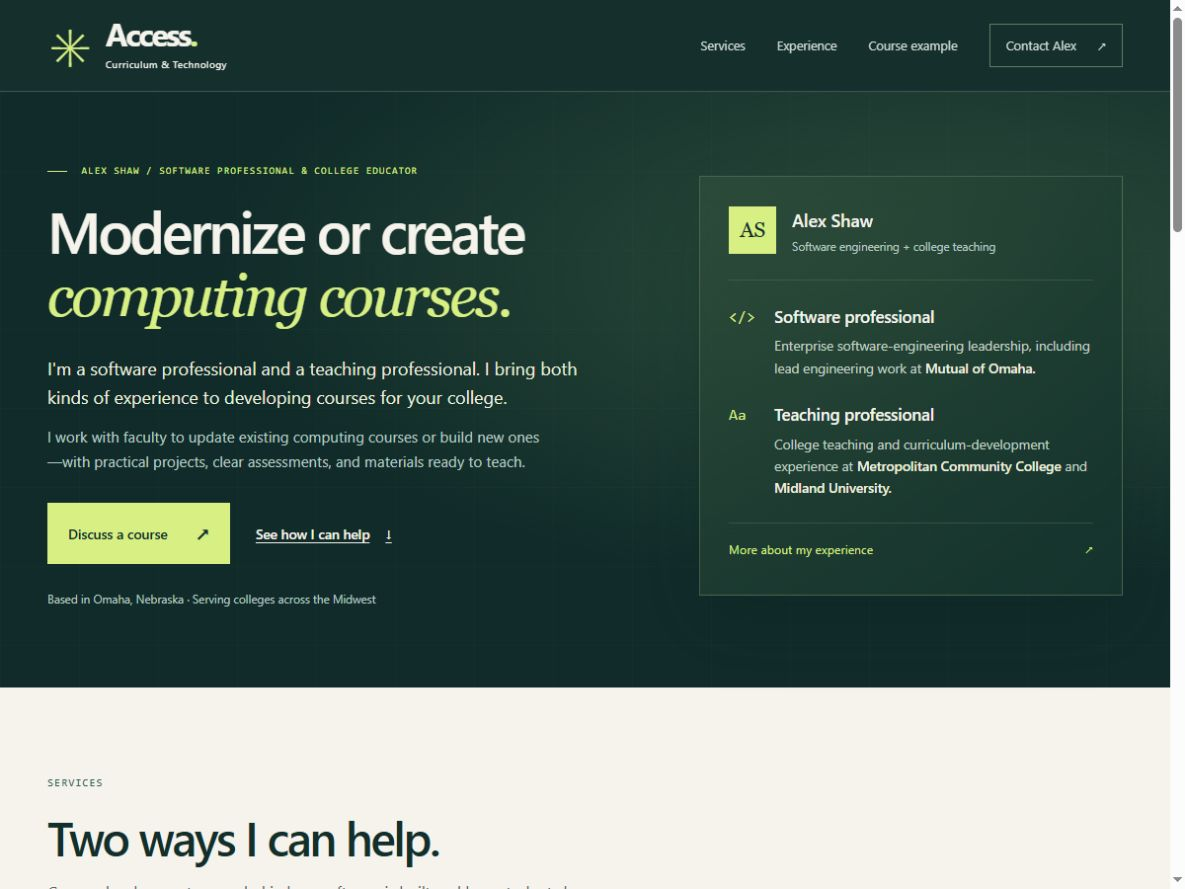
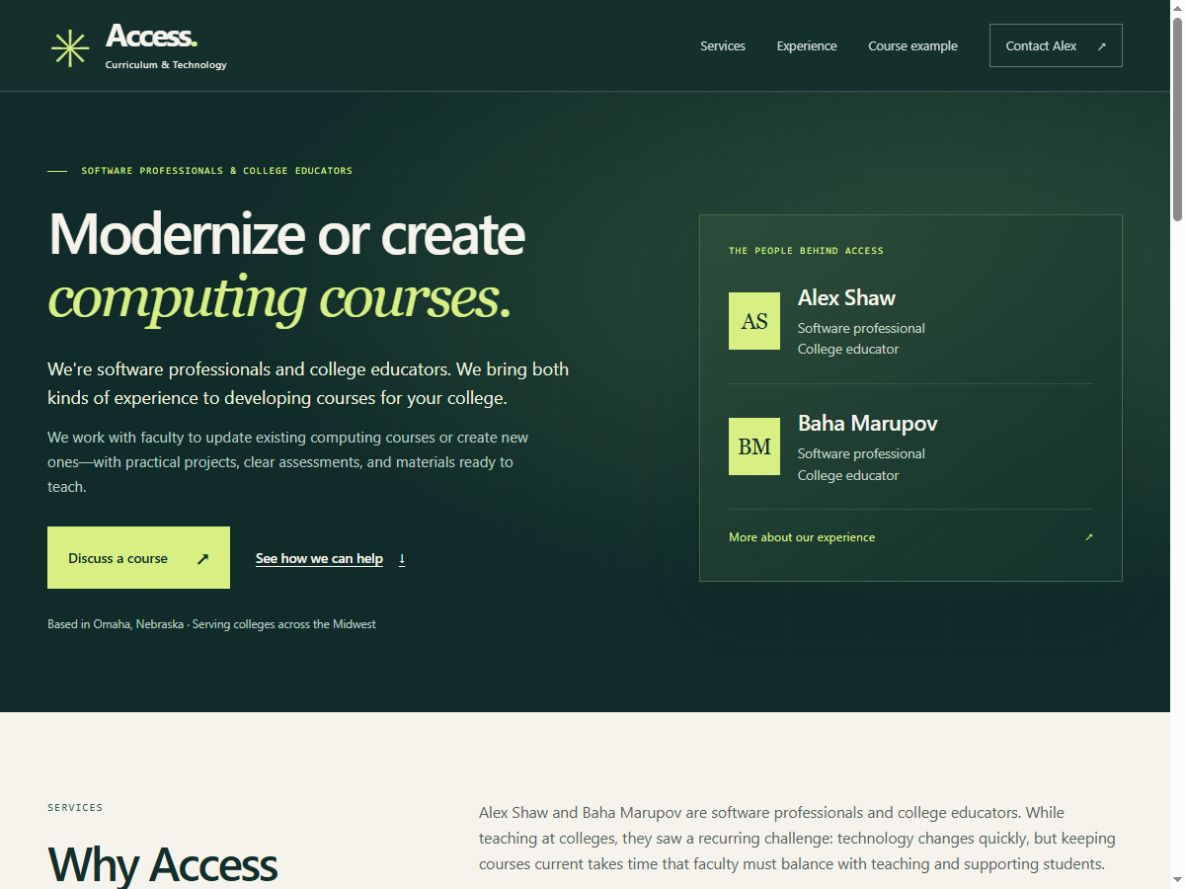
Tell Access's story and introduce Alex Shaw and Baha Marupov

diff --git a/index.html b/index.html
@@ -3,11 +3,11 @@
 <head>
   <meta charset="utf-8">
   <meta name="viewport" content="width=device-width, initial-scale=1">
-  <title>Alex Shaw | Computing Course Development | Access Curriculum &amp; Technology</title>
-  <meta name="description" content="Alex Shaw is a software professional and college educator helping colleges modernize existing computing courses and create new ones. Based in Omaha, serving the Midwest.">
+  <title>Computing Course Development | Access Curriculum &amp; Technology</title>
+  <meta name="description" content="Alex Shaw and Baha Marupov bring software and college teaching experience to helping faculty modernize computing courses or create new ones. Serving the Midwest.">
   <meta property="og:type" content="website">
-  <meta property="og:title" content="Alex Shaw | Modernize or create computing courses">
-  <meta property="og:description" content="Professional software experience. Professional teaching experience. Practical help developing computing courses for your college.">
+  <meta property="og:title" content="Access | Modernize or create computing courses">
+  <meta property="og:description" content="Software professionals and college educators Alex Shaw and Baha Marupov help faculty develop computing courses with practical projects and materials ready to teach.">
   <meta name="theme-color" content="#102b29">
   <link rel="icon" href="./favicon.svg" type="image/svg+xml">
   <link rel="stylesheet" href="./styles.css">
@@ -30,34 +30,41 @@
     <section class="hero" id="top" aria-labelledby="hero-heading">
       <div class="container hero-grid">
         <div class="hero-copy">
-          <p class="eyebrow"><span class="eyebrow-line" aria-hidden="true"></span> Alex Shaw / Software professional &amp; college educator</p>
+          <p class="eyebrow"><span class="eyebrow-line" aria-hidden="true"></span> Software professionals &amp; college educators</p>
           <h1 id="hero-heading">Modernize or create<br><em>computing courses.</em></h1>
-          <p class="hero-intro">I'm a software professional and a teaching professional. I bring both kinds of experience to developing courses for your college.</p>
-          <p class="hero-description">I work with faculty to update existing computing courses or build new ones—with practical projects, clear assessments, and materials ready to teach.</p>
+          <p class="hero-intro">We're software professionals and college educators. We bring both kinds of experience to developing courses for your college.</p>
+          <p class="hero-description">We work with faculty to update existing computing courses or create new ones—with practical projects, clear assessments, and materials ready to teach.</p>
           <div class="actions">
             <a class="button button-accent" href="#contact">Discuss a course <span aria-hidden="true">↗</span></a>
-            <a class="text-link" href="#services">See how I can help <span aria-hidden="true">↓</span></a>
+            <a class="text-link" href="#services">See how we can help <span aria-hidden="true">↓</span></a>
           </div>
           <p class="hero-location">Based in Omaha, Nebraska · Serving colleges across the Midwest</p>
         </div>
-        <aside class="credentials" aria-label="Alex Shaw's software and teaching credentials">
-          <div class="credential-heading"><span class="founder-monogram" aria-hidden="true">AS</span><div><strong>Alex Shaw</strong><span>Software engineering + college teaching</span></div></div>
-          <div class="credential">
-            <span class="credential-icon" aria-hidden="true">&lt;/&gt;</span>
-            <div><h2>Software professional</h2><p>Enterprise software-engineering leadership, including lead engineering work at <strong>Mutual of Omaha.</strong></p></div>
+        <aside class="credentials" aria-label="Meet Alex Shaw and Baha Marupov">
+          <p class="credentials-label">The people behind Access</p>
+          <div class="credential-person">
+            <span class="person-monogram" aria-hidden="true">AS</span>
+            <div><h2>Alex Shaw</h2><p>Software professional<br>College educator</p></div>
           </div>
-          <div class="credential">
-            <span class="credential-icon" aria-hidden="true">Aa</span>
-            <div><h2>Teaching professional</h2><p>College teaching and curriculum-development experience at <strong>Metropolitan Community College</strong> and <strong>Midland University.</strong></p></div>
+          <div class="credential-person">
+            <span class="person-monogram" aria-hidden="true">BM</span>
+            <div><h2>Baha Marupov</h2><p>Software professional<br>College educator</p></div>
           </div>
-          <a class="credential-link" href="#experience">More about my experience <span aria-hidden="true">↗</span></a>
+          <a class="credential-link" href="#experience">More about our experience <span aria-hidden="true">↗</span></a>
         </aside>
       </div>
     </section>
 
     <section class="section services" id="services" aria-labelledby="services-heading">
       <div class="container">
-        <div class="section-heading"><p class="eyebrow">Services</p><h2 id="services-heading">Two ways I can help.</h2><p>Course development grounded in how software is built and how students learn.</p></div>
+        <div class="section-heading services-intro">
+          <div><p class="eyebrow">Services</p><h2 id="services-heading">Why Access<br><em>exists.</em></h2></div>
+          <div class="origin-story">
+            <p>Alex Shaw and Baha Marupov are software professionals and college educators. While teaching at colleges, they saw a recurring challenge: technology changes quickly, but keeping courses current takes time that faculty must balance with teaching and supporting students.</p>
+            <p>Access exists to help with that work. We work alongside your faculty to update existing computing courses or create new ones—with practical projects, clear assessments, and teaching materials your faculty can use and adapt.</p>
+          </div>
+        </div>
+        <p class="services-label">Two ways we can help</p>
         <div class="course-services">
           <article class="course-service" data-reveal>
             <div class="service-top"><span class="service-number">01</span><svg viewBox="0 0 64 64" aria-hidden="true"><path d="M49 20A22 22 0 1 0 53 42M49 9v13H36"/></svg></div>
@@ -70,11 +77,11 @@
             <div class="service-top"><span class="service-number">02</span><svg viewBox="0 0 64 64" aria-hidden="true"><rect x="11" y="11" width="42" height="42"/><path d="M20 32h24M32 20v24"/></svg></div>
             <h3>Create a new<br>computing course.</h3>
             <p>Develop a course from its initial purpose through the learning activities and materials faculty need to teach it.</p>
-            <ul><li>Define outcomes, prerequisites, and a module plan</li><li>Build lessons, labs, projects, and assessments</li><li>Prepare editable teaching materials and a faculty handoff</li></ul>
+            <ul><li>Set learning goals, prerequisites, and a course plan</li><li>Build lessons, labs, projects, and assessments</li><li>Prepare teaching materials faculty can use and adapt</li></ul>
             <a class="text-link" href="mailto:alexandergshaw@gmail.com?subject=Create%20a%20computing%20course">Discuss a new course <span aria-hidden="true">↗</span></a>
           </article>
         </div>
-        <div class="working-together"><h3>Working with your faculty</h3><p>We agree on the learners, course goals, deliverables, timeline, and fee. I develop the materials with faculty feedback and provide a clear handoff. Faculty retain academic decisions and approval.</p></div>
+        <div class="working-together"><h3>Working with your faculty</h3><div><p>College budgets can also make it difficult to match the salaries offered by technology companies. We offer help with a specific course project, with the work, timeline, and fee agreed in advance.</p><p>We develop the materials with faculty feedback and provide guidance for teaching the course. Your faculty make the academic decisions and approve the final materials.</p></div></div>
       </div>
     </section>
 
@@ -82,16 +89,16 @@
       <div class="container">
         <div class="section-heading"><p class="eyebrow">Experience</p><h2 id="experience-heading">Professional software experience.<br><em>Professional teaching experience.</em></h2></div>
         <div class="experience-columns">
-          <article data-reveal><p class="experience-label">Software engineering</p><h3>Experience building<br>and delivering software.</h3><p>My background includes enterprise software-engineering leadership and lead engineering work at Mutual of Omaha.</p><p>I bring that practical perspective to course development: how applications fit together, how to test them, and how to explain technical decisions.</p></article>
-          <article data-reveal><p class="experience-label">College teaching</p><h3>Experience making<br>technical work teachable.</h3><p>My teaching and curriculum-development experience includes Metropolitan Community College and Midland University.</p><p>My work includes web development instruction with TypeScript, React, and Express, systems administration curriculum design, and a proposed applied AI course.</p></article>
+          <article data-reveal><p class="experience-label">Software professional &amp; college educator</p><h3>Alex Shaw</h3><p>Alex's software background includes engineering leadership and lead engineering work at Mutual of Omaha. His teaching and curriculum work includes Metropolitan Community College and Midland University.</p><p>His work includes web development instruction with TypeScript, React, and Express, systems administration course design, and a proposed applied AI course.</p></article>
+          <article data-reveal><p class="experience-label">Software professional &amp; college educator</p><h3>Baha Marupov</h3><p>Baha has experience working as a software professional and teaching at the college level.</p><p>He brings both perspectives to our work with faculty on new and updated computing courses.</p></article>
         </div>
-        <p class="experience-note">These affiliations describe my individual professional experience, not consulting client relationships or institutional endorsements.</p>
+        <p class="experience-note">The organizations named above describe Alex's individual work experience. They are not presented as Access clients or endorsements.</p>
       </div>
     </section>
 
     <section class="section course-example" id="course-example" aria-labelledby="example-heading">
       <div class="container example-layout">
-        <div class="example-copy"><p class="eyebrow">Course example</p><h2 id="example-heading">See what the<br><em>course work looks like.</em></h2><p>Explore a web development example with a module plan, an applied project, assessment criteria, and instructor notes.</p><p class="example-note">This is an illustrative design sample, not a completed client engagement or a report of student results.</p><a class="button" href="./curriculum-sample.html">View the course example <span aria-hidden="true">↗</span></a></div>
+        <div class="example-copy"><p class="eyebrow">Course example</p><h2 id="example-heading">See what the<br><em>course work looks like.</em></h2><p>See how software concepts become lessons, a practical project, clear assessment criteria, and instructor notes in this web development example.</p><p class="example-note">This sample shows our approach. It is not a completed client project or a report of student results.</p><a class="button" href="./curriculum-sample.html">View the course example <span aria-hidden="true">↗</span></a></div>
         <a class="course-preview" href="./curriculum-sample.html" aria-label="Explore the illustrative web application development course">
           <div class="course-preview-top"><span>Illustrative course design</span><span aria-hidden="true">↗</span></div>
           <h3>Web application<br>development</h3>
@@ -103,11 +110,11 @@
 
     <section class="section contact" id="contact" aria-labelledby="contact-heading">
       <div class="container contact-grid">
-        <div><p class="eyebrow">Contact Alex</p><h2 id="contact-heading">Let's talk about<br><em>your course.</em></h2><p>Tell me what you teach, what needs to change, or what new course you want to offer.</p></div>
+        <div><p class="eyebrow">Contact Alex</p><h2 id="contact-heading">Let's talk about<br><em>your course.</em></h2><p>Tell us what you teach, what needs to change, or what new course you want to offer.</p></div>
         <div class="contact-details"><p class="contact-prompts">Modernize an existing course.<br>Create a new one.</p><a class="email-address" href="mailto:alexandergshaw@gmail.com">alexandergshaw@gmail.com</a><div class="actions"><a class="button button-accent" href="mailto:alexandergshaw@gmail.com?subject=Computing%20course%20development">Email Alex <span aria-hidden="true">↗</span></a><button class="copy-email" type="button" hidden>Copy email</button></div><p class="email-help">Opens your email app.</p><p class="copy-status" role="status" aria-live="polite"></p><a class="brief-download" href="./output/pdf/access-capabilities.pdf" download>Download the one-page service overview <span>PDF</span></a></div>
       </div>
     </section>
   </main>
-  <footer class="site-footer"><div class="container footer-inner"><div><p class="footer-brand">Access Curriculum &amp; Technology</p><p>Alex Shaw · Omaha, Nebraska · Serving the Midwest</p></div><p>© 2026 Access Curriculum &amp; Technology</p><a href="#top">Back to top <span aria-hidden="true">↑</span></a></div></footer>
+  <footer class="site-footer"><div class="container footer-inner"><div><p class="footer-brand">Access Curriculum &amp; Technology</p><p>Alex Shaw &amp; Baha Marupov</p><p>Omaha, Nebraska · Serving the Midwest</p></div><p>© 2026 Access Curriculum &amp; Technology</p><a href="#top">Back to top <span aria-hidden="true">↑</span></a></div></footer>
 </body>
 </html>

diff --git a/styles.css b/styles.css
@@ -75,19 +75,20 @@ nav .nav-contact { color: var(--accent); gap: 1.3rem; border: 1px solid #657a60;
 .text-link:hover { text-decoration-thickness: 2px; }
 .hero-location { color: var(--on-dark); font-size: .73rem; margin-top: 1.6rem; }
 .credentials { border: 1px solid #82957270; background: linear-gradient(135deg, #34523d90, #14332c); box-shadow: 0 24px 65px #041a1c30; padding: 1.8rem; }
-.credential-heading { display: flex; gap: 1rem; align-items: center; padding-bottom: 1.5rem; border-bottom: 1px solid #6c826254; }
-.founder-monogram { display: grid; place-items: center; width: 48px; height: 48px; flex-shrink: 0; background: var(--accent); color: var(--night); font: 1.3rem var(--serif); }
-.credential-heading strong { display: block; font-size: 1.1rem; font-weight: 600; }
-.credential-heading div > span { display: block; color: var(--on-dark); font-size: .72rem; margin-top: .15rem; }
-.credential { display: grid; grid-template-columns: 30px 1fr; gap: 1rem; margin-top: 1.5rem; }
-.credential-icon { color: var(--accent); font: 1rem/1.6 var(--mono); }
-.credential h2 { font-family: var(--sans); font-size: 1.08rem; letter-spacing: -.02em; line-height: 1.4; }
-.credential p { font-size: .85rem; color: #c2d2c5; margin-top: .4rem; }
-.credential p strong { color: #eef0df; font-weight: 500; }
+.credentials-label { font: .65rem/1.5 var(--mono); text-transform: uppercase; letter-spacing: .08em; color: var(--accent); }
+.credential-person { display: flex; gap: 1.1rem; align-items: center; margin-top: 1.5rem; }
+.credential-person + .credential-person { border-top: 1px solid #6c826254; padding-top: 1.5rem; }
+.person-monogram { display: grid; place-items: center; width: 52px; height: 58px; flex-shrink: 0; background: var(--accent); color: var(--night); font: 1.35rem var(--serif); }
+.credential-person h2 { font-family: var(--sans); font-size: 1.4rem; letter-spacing: -.025em; line-height: 1.3; }
+.credential-person p { color: #c2d2c5; font-size: .85rem; line-height: 1.6; margin-top: .35rem; }
 .credential-link { display: flex; justify-content: space-between; gap: 1rem; min-height: 44px; align-items: center; color: var(--accent); border-top: 1px solid #6c826254; margin-top: 1.5rem; padding-top: .6rem; font-size: .77rem; text-decoration: none; }
 .credential-link:hover { text-decoration: underline; }
 .section-heading { margin-bottom: 2.6rem; }
 .section-heading > p:last-child:not(.eyebrow) { margin-top: 1rem; color: var(--muted); }
+.services-intro { display: grid; grid-template-columns: .8fr 1.4fr; gap: 4rem; align-items: start; }
+.origin-story { color: var(--muted); max-width: 44rem; }
+.origin-story p { font-size: .98rem; }
+.services-label { font-size: 1.15rem; font-weight: 550; letter-spacing: -.02em; margin-bottom: 1.2rem; }
 .course-services { display: grid; grid-template-columns: 1fr 1fr; gap: 1.8rem; }
 .course-service { background: var(--white); border: 1px solid var(--line); padding: 2.4rem; display: flex; flex-direction: column; align-items: start; }
 .course-service:nth-child(2) { background: #e8ecdf; }
@@ -107,7 +108,7 @@ nav .nav-contact { color: var(--accent); gap: 1.3rem; border: 1px solid #657a60;
 .experience-columns { display: grid; grid-template-columns: 1fr 1fr; gap: 5rem; }
 .experience-columns article { border-top: 1px solid #b6c1ac; padding-top: 1.5rem; }
 .experience-label { font: .67rem var(--mono); color: var(--teal); text-transform: uppercase; letter-spacing: .08em; }
-.experience-columns h3 { font-size: 1.7rem; letter-spacing: -.035em; font-weight: 500; margin-top: 1rem; }
+.experience-columns h3 { font-size: 2.1rem; letter-spacing: -.035em; font-weight: 500; margin-top: 1rem; }
 .experience-columns p:not(.experience-label) { font-size: .95rem; color: var(--muted); margin-top: 1rem; }
 .experience-note { font-size: .72rem; color: var(--muted); margin-top: 2rem; }
 .example-layout { display: grid; grid-template-columns: 1fr 1fr; gap: 5rem; align-items: center; }
@@ -151,9 +152,10 @@ nav .nav-contact { color: var(--accent); gap: 1.3rem; border: 1px solid #657a60;
   .hero-grid { grid-template-columns: 1.2fr 1fr; gap: 2rem; }
   .hero h1 { font-size: clamp(2.6rem, 4.9vw, 3.5rem); }
   .credentials { padding: 1.4rem; }
-  .credential { gap: .6rem; grid-template-columns: 25px 1fr; }
+  .credential-person { gap: .8rem; }
   .hero .eyebrow { max-width: 320px; }
   .experience-columns, .example-layout, .contact-grid { gap: 3rem; }
+  .services-intro { gap: 2.5rem; }
   .course-service, .course-preview { padding: 1.8rem; }
 }
 @media (max-width: 800px) {
@@ -164,7 +166,8 @@ nav .nav-contact { color: var(--accent); gap: 1.3rem; border: 1px solid #657a60;
   .hero .eyebrow { max-width: none; }
   .hero h1 { font-size: clamp(2.5rem, 7.5vw, 4.5rem); }
   .credentials { max-width: 600px; padding: 1.8rem; }
-  .credential p { font-size: .92rem; }
+  .credential-person p { font-size: .92rem; }
+  .services-intro { grid-template-columns: 1fr; gap: 1.5rem; }
   .course-services, .experience-columns, .example-layout, .contact-grid { grid-template-columns: 1fr; gap: 2rem; }
   .course-service { padding: 2rem; }
   .course-service h3 { font-size: 2.5rem; }
@@ -191,12 +194,10 @@ nav .nav-contact { color: var(--accent); gap: 1.3rem; border: 1px solid #657a60;
   .eyebrow-line { display: none; }
   .hero-location { font-size: .69rem; }
   .credentials { padding: 1.3rem; }
-  .credential-heading { gap: .75rem; }
-  .credential-heading div > span { font-size: .67rem; }
-  .credential { grid-template-columns: 1fr; gap: .3rem; }
-  .credential-icon { font-size: .85rem; }
-  .credential h2 { font-size: 1.15rem; }
-  .credential p { font-size: .87rem; }
+  .credential-person { gap: 1rem; }
+  .credential-person h2 { font-size: 1.3rem; }
+  .credential-person p { font-size: .85rem; }
+  .origin-story p { font-size: .93rem; }
   .section { padding-block: 3.5rem; }
   h2, .experience h2 { font-size: clamp(2rem, 8.3vw, 2.5rem); }
   .section-heading { margin-bottom: 2rem; }
@@ -232,8 +233,10 @@ nav .nav-contact { color: var(--accent); gap: 1.3rem; border: 1px solid #657a60;
   h2, .experience h2 { font-size: 23pt; }
   .hero-grid, .example-layout, .contact-grid { display: block; }
   .credentials { margin-top: 1.2rem; padding: 1rem; break-inside: avoid; }
-  .credential { margin-top: 1rem; }
-  .credential-heading { padding-bottom: .8rem; }
+  .credential-person { margin-top: 1rem; }
+  .credential-person + .credential-person { padding-top: 1rem; }
+  .services-intro { display: block; }
+  .origin-story { margin-top: 1rem; max-width: none; }
   .section-heading { margin-bottom: 1.2rem; }
   .course-services, .experience-columns { gap: 1.5rem; }
   .course-service { padding: 1rem; break-inside: avoid; }

diff --git a/curriculum-sample.html b/curriculum-sample.html
@@ -4,7 +4,7 @@
   <meta charset="utf-8">
   <meta name="viewport" content="width=device-width, initial-scale=1">
   <title>Illustrative curriculum sample | Access Curriculum &amp; Technology</title>
-  <meta name="description" content="Explore an illustrative web development curriculum map, applied assessment rubric, and faculty handoff plan from Access Curriculum & Technology.">
+  <meta name="description" content="Explore a web development course example from Access, where Alex Shaw and Baha Marupov bring software and teaching experience to course development.">
   <meta name="theme-color" content="#102b29">
   <link rel="icon" href="./favicon.svg" type="image/svg+xml">
   <link rel="stylesheet" href="./styles.css">
@@ -143,9 +143,9 @@
     </div>
 
     <section class="sample-next" aria-labelledby="sample-next-heading">
-      <div class="container"><p class="eyebrow">Develop a course for your college</p><h2 id="sample-next-heading">Modernize an existing course. Create a new one.</h2><p>Tell me what you teach, what needs to change, or what new course you want to offer. We can discuss the materials your faculty need.</p><div class="actions"><a class="button" href="mailto:alexandergshaw@gmail.com?subject=Computing%20course%20development">Discuss a course with Alex <span aria-hidden="true">↗</span></a><a class="text-link" href="./index.html#services">See course services</a></div></div>
+      <div class="container"><p class="eyebrow">Develop a course for your college</p><h2 id="sample-next-heading">Modernize an existing course. Create a new one.</h2><p>Tell us what you teach, what needs to change, or what new course you want to offer. We can discuss the materials your faculty need.</p><div class="actions"><a class="button" href="mailto:alexandergshaw@gmail.com?subject=Computing%20course%20development">Discuss a course with Alex <span aria-hidden="true">↗</span></a><a class="text-link" href="./index.html#services">See course services</a></div></div>
     </section>
   </main>
-  <footer class="site-footer"><div class="container footer-inner"><div><p class="footer-brand">Access Curriculum &amp; Technology</p><p>Omaha, Nebraska · Serving the Midwest</p></div><a href="mailto:alexandergshaw@gmail.com">alexandergshaw@gmail.com</a><p class="copyright">© 2026 Access Curriculum &amp; Technology</p></div></footer>
+  <footer class="site-footer"><div class="container footer-inner"><div><p class="footer-brand">Access Curriculum &amp; Technology</p><p>Alex Shaw &amp; Baha Marupov</p><p>Omaha, Nebraska · Serving the Midwest</p></div><a href="mailto:alexandergshaw@gmail.com">alexandergshaw@gmail.com</a><p class="copyright">© 2026 Access Curriculum &amp; Technology</p></div></footer>
 </body>
 </html>

diff --git a/tools/build_capabilities.py b/tools/build_capabilities.py
@@ -22,8 +22,8 @@ styles = {
     "heading": ParagraphStyle("heading", fontName="Helvetica-Bold", fontSize=13, leading=17, textColor=INK),
 }
 c = canvas.Canvas(str(OUTPUT), pagesize=(612, 792), pageCompression=1)
-c.setTitle("Alex Shaw | Computing Course Development")
-c.setAuthor("Alex Shaw | Access Curriculum & Technology")
+c.setTitle("Access Curriculum & Technology | Computing Course Development")
+c.setAuthor("Alex Shaw and Baha Marupov | Access Curriculum & Technology")
 c.setSubject("Software and teaching expertise to modernize or create computing courses")
 c.setFillColor(PAPER)
 c.rect(0, 0, 612, 792, fill=1, stroke=0)
@@ -51,7 +51,7 @@ c.drawString(42, 741, "Access.")
 paragraph("CURRICULUM &amp; TECHNOLOGY", 43, 729, 300, "label")
 c.setFillColor(MUTED)
 c.setFont("Helvetica", 8)
-c.drawRightString(570, 750, "ALEX SHAW / COURSE DEVELOPMENT")
+c.drawRightString(570, 750, "ALEX SHAW + BAHA MARUPOV")
 c.drawRightString(570, 735, "Omaha, Nebraska | Serving the Midwest")
 rule(707)
 c.setFillColor(INK)
@@ -61,17 +61,30 @@ c.setFillColor(TEAL)
 c.setFont("Times-Italic", 32)
 c.drawString(42, 634, "computing courses.")
 y = paragraph(
-    "I'm a software professional and a teaching professional. I bring both kinds of "
-    "experience to developing courses for your college - with practical projects, "
-    "clear assessments, and materials ready to teach.", 42, 614, 528,
+    "Alex Shaw and Baha Marupov are software professionals and college educators. "
+    "We help faculty update computing courses or create new ones - with practical "
+    "projects, clear assessments, and materials ready to teach.", 42, 614, 528,
 )
 
-top = y - 23
-paragraph("TWO WAYS I CAN HELP", 42, top, 528, "label")
+top = y - 20
+paragraph("WHY ACCESS EXISTS", 42, top, 528, "label")
+y = paragraph(
+    "While teaching at colleges, Alex and Baha saw a recurring challenge: technology "
+    "changes quickly, but keeping courses current takes time that faculty must balance "
+    "with teaching and supporting students. Access exists to help with that work.",
+    42, top - 19, 528,
+)
+y = paragraph(
+    "College budgets can also make it difficult to match the salaries offered by technology companies.",
+    42, y - 7, 528, "small",
+)
+
+top = y - 20
+paragraph("TWO WAYS WE CAN HELP", 42, top, 528, "label")
 top -= 22
 services = [
     ("Modernize an existing course", "Review the syllabus and existing materials. Update technologies, examples, and applied projects. Refine assessments, rubrics, and instructor guidance."),
-    ("Create a new computing course", "Define outcomes, prerequisites, and a module plan. Build lessons, labs, projects, and assessments. Prepare editable teaching materials and a faculty handoff."),
+    ("Create a new computing course", "Set learning goals, prerequisites, and a course plan. Build lessons, labs, projects, and assessments. Prepare editable teaching materials and guidance for faculty."),
 ]
 bottoms = []
 for i, (title, body) in enumerate(services):
@@ -82,38 +95,32 @@ for i, (title, body) in enumerate(services):
     bottom = paragraph(title, x, top - 11, 252, "heading")
     bottoms.append(paragraph(body, x, bottom - 9, 252))
 
-y = min(bottoms) - 25
+y = min(bottoms) - 21
 paragraph("SOFTWARE EXPERIENCE + TEACHING EXPERIENCE", 42, y, 528, "label")
-y = paragraph(
-    "<b>Software professional.</b> My background includes enterprise software-engineering "
-    "leadership and lead engineering work at Mutual of Omaha.", 42, y - 20, 528,
-)
-y = paragraph(
-    "<b>Teaching professional.</b> My teaching and curriculum-development experience "
-    "includes Metropolitan Community College and Midland University, with work in web "
-    "development instruction and systems administration curriculum design.", 42, y - 10, 528,
-)
-y = paragraph(
-    "Affiliations describe my individual experience, not consulting client relationships or institutional endorsements.",
-    42, y - 9, 528, "small",
-)
+top = y - 20
+bottoms = []
+for i, name in enumerate(("Alex Shaw", "Baha Marupov")):
+    x = 42 + i * 276
+    bottom = paragraph(name, x, top, 252, "heading")
+    bottoms.append(paragraph("Software professional<br/>College educator", x, bottom - 5, 252))
+y = min(bottoms)
 
-box_top = y - 19
-box_bottom = box_top - 105
+box_top = y - 18
+box_bottom = box_top - 89
 c.setFillColor(SOFT)
-c.rect(42, box_bottom, 528, 105, fill=1, stroke=0)
+c.rect(42, box_bottom, 528, 89, fill=1, stroke=0)
 y = paragraph("WORKING WITH YOUR FACULTY", 57, box_top - 14, 498, "label")
 y = paragraph(
-    "We agree on the learners, course goals, deliverables, timeline, and fee. I develop "
-    "the materials with faculty feedback and provide a clear handoff. Faculty retain "
-    "academic decisions and approval.", 57, y - 9, 498,
+    "We agree on the course goals, materials, schedule, and fee. We develop the "
+    "materials with faculty feedback and explain how to use and update them. "
+    "Your faculty make the academic decisions and approve the finished work.", 57, y - 9, 498,
 )
 assert y >= box_bottom + 12, "Working-together text overflows its panel"
 assert box_bottom >= 111, "Content overlaps the contact footer"
 rule(89)
-paragraph("LET'S TALK ABOUT YOUR COURSE", 42, 76, 310, "label")
+paragraph("CONTACT ALEX ABOUT YOUR COURSE", 42, 76, 310, "label")
 paragraph('<link href="mailto:alexandergshaw@gmail.com" color="#2d6452">alexandergshaw@gmail.com</link>', 42, 59, 310)
-paragraph("Tell me what you teach, what needs to change,<br/>or what new course you want to offer.", 360, 75, 210, "small")
+paragraph("Tell us what you teach, what needs to change,<br/>or what new course you want to offer.", 360, 75, 210, "small")
 c.showPage()
 c.save()
 print(OUTPUT)

diff --git a/README.md b/README.md
@@ -1,18 +1,20 @@
 # Access Curriculum & Technology
 
-A dependency-free static website for Alex Shaw's computing course-development services. No build step, external fonts, analytics, or services are required.
+A dependency-free static website for Access's computing course-development services, offered by Alex Shaw and Baha Marupov. No build step, external fonts, analytics, or services are required.
 
 ## Core message and structure
 
-Alex is a software professional and a teaching professional who helps colleges **modernize existing computing courses or create new ones**. The first screen states that offer and shows both professional backgrounds. Keep future changes focused on this message.
+Alex Shaw and Baha Marupov are each software professionals and college educators who help colleges **modernize existing computing courses or create new ones**. The first screen states that offer and gives both names equal prominence. Keep future changes focused on this message.
 
-The homepage has four destinations: **Services**, **Experience**, **Course example**, and **Contact Alex**. Services presents the two offers and a short explanation of faculty collaboration. Experience supports the offer with Alex's individual work history. The course example demonstrates the teaching materials; the interactive curriculum map lives on that separate page. Contact repeats the two services and provides email and a one-page overview.
+The homepage has four destinations: **Services**, **Experience**, **Course example**, and **Contact Alex**. Services opens with the origin story: teaching at colleges showed Alex and Baha how course updates compete with teaching and student support for faculty time as technology changes. Access helps with that work through the two course-development services. Compensation differences appear only as supporting context. Experience introduces both people; named organizations describe Alex's individual work history. The course example demonstrates teaching materials; the interactive curriculum map lives on that separate page. Contact repeats the two services and provides Alex's email and a one-page overview.
+
+Use professional, everyday language and company voice ("we") for services. Keep the story within the Services introduction, without adding another navigation item or large section. Both people have confirmed software and college teaching experience; do not invent additional credentials for either person.
 
 ## Preview and hosting
 
 Run `python tools/preview.py` and visit `http://127.0.0.1:8765`. The preview binds only to loopback and serves an explicit list of public site assets; it does not expose directory listings, Git data, or tooling. Stop it with Ctrl+C when finished. The static pages also support opening directly in a browser outside the automated preview workflow.
 
-Upload `index.html`, `curriculum-sample.html`, `styles.css`, `sample.css`, `script.js`, `favicon.svg`, `downloads/`, and `output/pdf/` together to any ordinary static host. Keep relative paths intact. No deployment or account connection is configured here. `tools/` and `output/previews/` are local development resources and are not needed on the host.
+The live site is [GitHub Pages](https://alexandergshaw.github.io/curriculum-and-technology-services-website/). Completed changes are committed and pushed to `main`; verify the published content after pushing. To use another static host, upload `index.html`, `curriculum-sample.html`, `styles.css`, `sample.css`, `script.js`, `favicon.svg`, `downloads/`, and `output/pdf/` together, keeping relative paths intact. `tools/` and `output/previews/` are local development resources and are not needed on the host.
 
 ## Editing
 

diff --git a/AGENTS.md b/AGENTS.md
@@ -7,6 +7,8 @@
 
 # Positioning and information architecture
 
-- Lead with Alex Shaw as both a software professional and a teaching professional who helps colleges modernize existing computing courses or create new ones.
+- Lead with Alex Shaw and Baha Marupov, each a software professional and college educator, helping colleges modernize existing computing courses or create new ones. Give both names equal prominence; keep individual affiliations attributed to the right person.
+- Tell the origin story in professional, everyday language: while teaching at colleges, they saw how quickly technology changes and how course updates compete with teaching and student support for faculty time. Access offers help with defined course projects. Keep compensation differences as supporting context, not the lead message.
+- Use company voice ("we") for Access's services. Keep Alex as the contact through the existing email address. Do not invent employers, institutions, job titles, years of experience, cost savings, or client results.
 - Keep those two course-development services central. Professional experience, course examples, and contact information should support that offer directly.
 - Preserve visual polish while keeping navigation and page structure simple. Technical demonstrations belong with the course example, below the core message.
